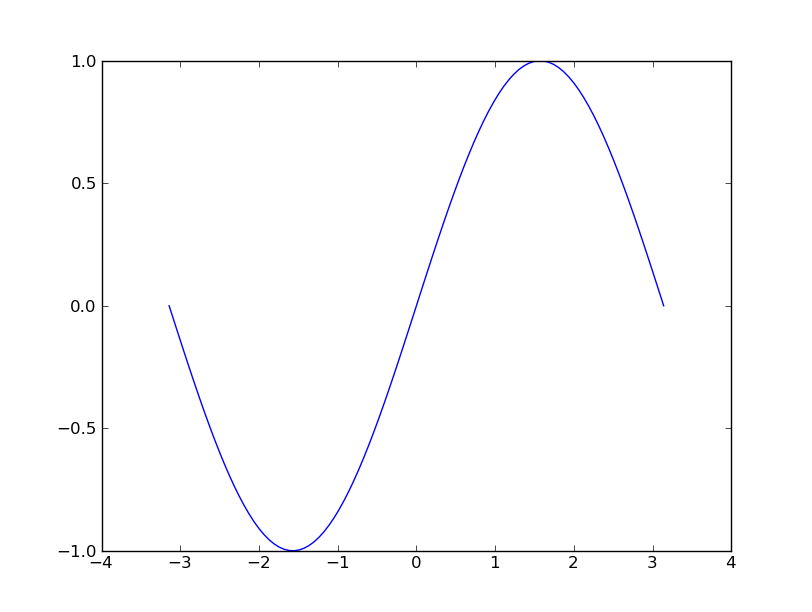
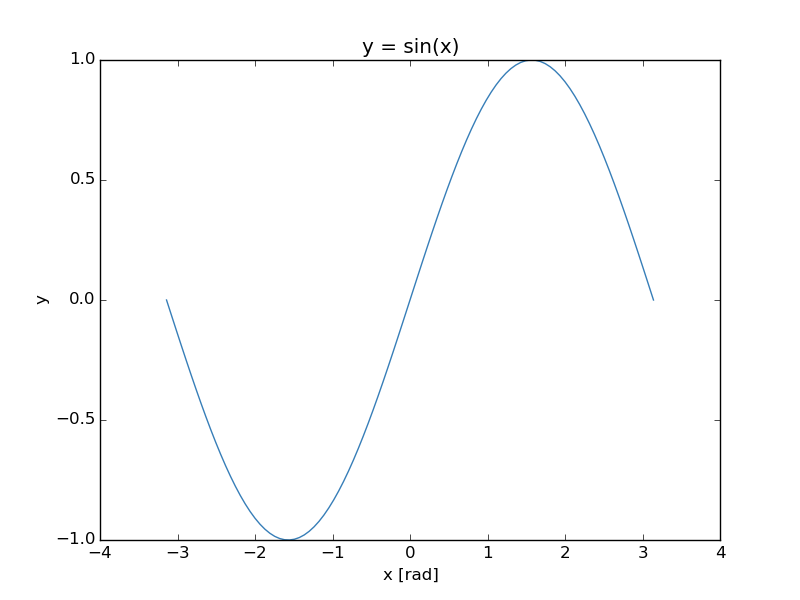
Ajout des axes et d'un titre dans l'exemple de base matplotlib; ajout d'un exemple matplotlib un peu plus complexe.

diff --git a/Cours/figure.py b/Cours/figure.py
@@ -1,0 +1,45 @@
+#!/usr/bin/env python
+# -*- coding: utf-8 -*-
+# Time-stamp: <2014-12-15 12:44:04 ycopin>
+
+"""
+Exemple un peu plus compexe de figure, incluant 2 axes, légendes, axes, etc.
+"""
+
+import numpy as N
+import matplotlib.pyplot as P
+
+x = N.linspace(-N.pi, 3*N.pi, 2*360)
+
+# Signal carré
+y = N.sign(N.sin(x))            # = ± 1
+
+# 3 premiers termes de la décomposition en série de Fourier
+y1 = 4/N.pi * N.sin(x)          # Fondamentale
+y2 = 4/N.pi * N.sin(3*x) / 3    # 1ère harmonique
+y3 = 4/N.pi * N.sin(5*x) / 5    # 2nde harmonique
+# Somme des 3 premières composantes
+ytot = y1 + y2 + y3
+
+# Figure
+fig = P.figure()                # Création de la Figure
+
+# 1er axe: composantes
+ax1 = fig.add_subplot(2, 1, 1,  # 1er axe d'une série de 2 × 1
+                      ylabel="Composantes",
+                      title=u"Décomposition en série de Fourier")
+ax1.plot(x, y1, label="Fondamental")
+ax1.plot(x, y2, label=u"1ère harmonique")
+ax1.plot(x, y3, label=u"2nde harmonique")
+ax1.legend(loc="upper left", fontsize="x-small")
+
+# 2nd axe: décomposition
+ax2 = fig.add_subplot(2, 1, 2,  # 2nd axe d'une série de 2 × 1
+                      ylabel=u"Décomposition",
+                      xlabel="x [rad]")
+ax2.plot(x, y, lw=2, color='k', label=u"Signal carré")
+ax2.plot(x, ytot, lw=2, ls=':', color='k', label=u"Somme des composantes")
+ax2.legend(loc="upper left", fontsize="x-small")
+
+# Sauvegarde de la figure (pas d'affichage intéractif)
+fig.savefig("figure.png")
